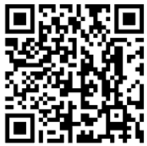
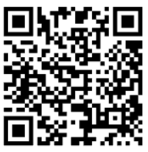
qr code image changes

diff --git a/app/Http/Controllers/HomeController.php b/app/Http/Controllers/HomeController.php
@@ -47,14 +47,14 @@ class HomeController extends Controller
         //     ->get();
 
 
-        $products = Product::where('active',1)->with(['shop:id,city,shop_ratings'])->get();
+        $products = Product::where('active',1)->with(['shop:id,state,shop_ratings'])->get();
 
         $treandingdeals = DealViews::whereDate('viewed_at',Carbon::today())->get();
-        $populardeals = DealViews::select('deal_id', DB::raw('count(*) as total_views'))->groupBy('deal_id')->limit(5)->orderBy('total_views', 'desc')->having('total_views', '>', 10)->get(); 
+        $populardeals = DealViews::select('deal_id', DB::raw('count(*) as total_views'))->groupBy('deal_id')->limit(5)->orderBy('total_views', 'desc')->having('total_views', '>', 10)->get();
         $earlybirddeals = Product::where('active', 1)->whereDate('start_date', now())->get();
         $lastchancedeals = Product::where('active', 1)->whereDate('end_date', now())->get();
         $limitedtimedeals = Product::where('active', 1)->whereRaw('DATEDIFF(end_date, start_date) <= ?', [2])->get();
-        
+
 
         $bookmarkedProducts = collect();
 
@@ -122,9 +122,9 @@ class HomeController extends Controller
         }
 
 
-        $pageurl = url()->current(); 
-        $pagetitle = $product->name; 
-        $pagedescription = $product->description; 
+        $pageurl = url()->current();
+        $pagetitle = $product->name;
+        $pagedescription = $product->description;
         $pageimage = $product->image_url1;
 
         $shareButtons = \Share::page(
@@ -409,7 +409,7 @@ class HomeController extends Controller
 
         if ($request->has('short_by')) {
             $shortby = $request->input('short_by');
-        
+
             if ($shortby == 'trending') {
                 $query->withCount(['views' => function ($viewQuery) {
                         $viewQuery->whereDate('viewed_at', now()->toDateString());
@@ -436,10 +436,10 @@ class HomeController extends Controller
                     ->addSelect(DB::raw("'LIMITED TIME' as label"));
             }
         }
-        
+
 
         $deals = $query->paginate($perPage);
-        
+
         $brands = Product::where('active', 1)->whereNotNull('brand')->where('brand', '!=', '')->distinct()->pluck('brand');
         $discounts = Product::where('active', 1)->distinct()->pluck('discount_percentage');
         $rating_items = Shop::where('active', 1)
@@ -481,7 +481,7 @@ class HomeController extends Controller
 
         return view('productfilter', compact('deals', 'brands', 'discounts', 'rating_items', 'priceRanges', 'shortby', 'totaldeals', 'category', 'categorygroup', 'bookmarkedProducts'));
     }
-    
+
     public function couponCodeCopied(Request $request)
     {
         $dealId = $request->id;
@@ -496,7 +496,7 @@ class HomeController extends Controller
             'copied_at' => Carbon::now(),
         ]);
 
-        return $this->ok('Coupon Code Copied Successfully!');        
+        return $this->ok('Coupon Code Copied Successfully!');
     }
 
     public function dealshare(Request $request)
@@ -512,7 +512,7 @@ class HomeController extends Controller
             'share_at' => Carbon::now(),
         ]);
 
-        return $this->ok('DealShare Added Successfully!');      
+        return $this->ok('DealShare Added Successfully!');
     }
 
     public function dealenquire(Request $request)
@@ -528,7 +528,7 @@ class HomeController extends Controller
             'enquire_at' => Carbon::now(),
         ]);
 
-        return $this->ok('Dealenquire Added Successfully!');       
+        return $this->ok('Dealenquire Added Successfully!');
     }
 
 }

diff --git a/resources/views/productfilter.blade.php b/resources/views/productfilter.blade.php
@@ -428,7 +428,7 @@
                                                     <p class="ps-3 fw-medium"
                                                         style="color: #ff0060; font-weight: 400 !important;">
                                                         <i
-                                                            class="fa-solid fa-location-dot"></i>&nbsp;{{ $product->shop->city }}
+                                                            class="fa-solid fa-location-dot"></i>&nbsp;{{ $product->shop->state }}
                                                     </p>
                                                 </div>
                                             </div>
@@ -486,7 +486,7 @@
                                     <a href="https://www.youtube.com/channel/UCAyH2wQ2srJE8WqvII8JNrQ" target="_blank"
                                         style="text-decoration:none;">
                                         <div class="d-flex justify-content-center align-items-center  p-1">
-                                            <img src="{{ asset('assets/images/home/QR_Code.png') }}" alt="QR Code"
+                                            <img src="{{ asset('assets/images/home/youtube_qr_code.png') }}" alt="QR Code"
                                                 class="card-img-top img-fluid">
                                         </div>
                                         <div

diff --git a/resources/views/contents/home/products.blade.php b/resources/views/contents/home/products.blade.php
@@ -73,8 +73,8 @@
 
                                     <!-- Tooltip container -->
                                     <span class="tooltip-text"
-                                        style="visibility: hidden; background-color: black; color: #fff; text-align: center; 
-                                                    border-radius: 6px; padding: 5px; position: absolute; z-index: 1; 
+                                        style="visibility: hidden; background-color: black; color: #fff; text-align: center;
+                                                    border-radius: 6px; padding: 5px; position: absolute; z-index: 1;
                                                     bottom: 125%; left: 50%; margin-left: -60px;">
                                         Copied!
                                     </span>
@@ -88,7 +88,7 @@
                             </div>
                             <div class="card-divider"></div>
                             <p class="ps-3 fw-medium" style="color: #ff0060; font-weight: 400 !important;">
-                                <i class="fa-solid fa-location-dot"></i>&nbsp;{{ $product->city }}
+                                <i class="fa-solid fa-location-dot"></i>&nbsp;{{  $product->shop->state }}
                             </p>
                         </div>
                     </div>

diff --git a/resources/views/privacypolicy.blade.php b/resources/views/privacypolicy.blade.php
@@ -30,17 +30,15 @@
         <div class="home-content container" style="margin-top: 100px">
             <div class="mt-5 mb-5">
                 <h1>DealsMachi Privacy Policy</h1>
-                <h3>Effective Date: 24/09/2024</h3>
+                <h3>Effective Date: October 21, 2024</h3>
             </div>
             <div>
                 <h2>1. Introduction</h2>
-                <p>DealsMachi is committed to protecting your privacy. This Privacy Policy outlines
-                    how we collect, use, disclose, and protect your personal information when you
-                    visit our website, dealsmachi.com.</p>
+                <p>This Privacy Policy describes how dealsmachi.com ("DealsMachi", "we", "us", or "our") collects, uses, and discloses your personal information when you use our website (dealsmachi.com).</p>
             </div>
             <div>
                 <h2>2. Information We Collect</h2>
-                <p>We may collect the following types of information: </p>
+                <p>We collect several types of information when you use the Website: </p>
                 <ul>
                     <li>
                         <span class="fw-normal">Personal Information: </span> Name, email address, phone number, and

diff --git a/resources/views/productDescription.blade.php b/resources/views/productDescription.blade.php
@@ -262,7 +262,7 @@
 
                             {!! $shareButtons !!}
 
-                            <a href="#" id="" title="" rel="">
+                            <a href="#"  onclick="shareOnInstagram()"  id="" title="" rel="">
                                 <i class="fa-brands fa-instagram"></i>
                                 <p>Instagram</p>
                             </a>
@@ -606,7 +606,7 @@
                                         <a href="https://www.youtube.com/channel/UCAyH2wQ2srJE8WqvII8JNrQ" target="_blank"
                                             style="text-decoration:none;">
                                             <div class="d-flex justify-content-center align-items-center  p-1">
-                                                <img src="{{ asset('assets/images/home/QR_Code.png') }}" alt="QR Code"
+                                                <img src="{{ asset('assets/images/home/youtube_qr_code.png') }}" alt="QR Code"
                                                     class="card-img-top" style="width: 100px; height: 100px;">
                                             </div>
                                             <div

diff --git a/resources/views/contents/home/slider.blade.php b/resources/views/contents/home/slider.blade.php
@@ -70,7 +70,7 @@
                             <a href="https://www.youtube.com/channel/UCAyH2wQ2srJE8WqvII8JNrQ" target="_blank"
                                 style="text-decoration:none;">
                                 <div class="d-flex justify-content-center align-items-center  p-1">
-                                    <img src="{{ asset('assets/images/home/QR_Code.png') }}" alt="QR Code"
+                                    <img src="{{ asset('assets/images/home/youtube_qr_code.png') }}" alt="QR Code"
                                         class="card-img-top" style="width: 100px; height: 100px;">
                                 </div>
                                 <div class="card-body youtube-body d-flex align-items-center  justify-content-center">

diff --git a/resources/views/bookmark.blade.php b/resources/views/bookmark.blade.php
@@ -65,7 +65,7 @@
                                         </div>
                                         <div class="card-divider"></div>
                                         <p class="ps-3 fw-medium" style="color: #ff0060; font-weight: 400 !important;">
-                                            <i class="fa-solid fa-location-dot"></i>&nbsp;{{ $deal->shop->city }}
+                                            <i class="fa-solid fa-location-dot"></i>&nbsp;{{ $deal->shop->state }}
                                         </p>
                                     </div>
                                 </div>
